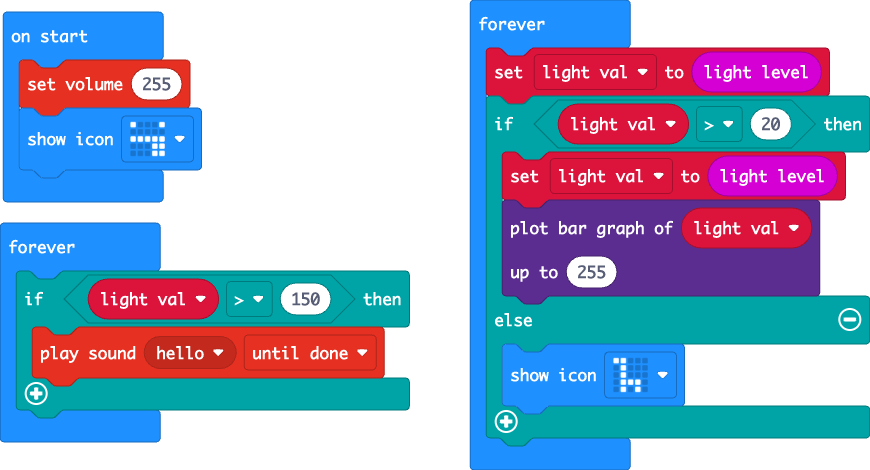
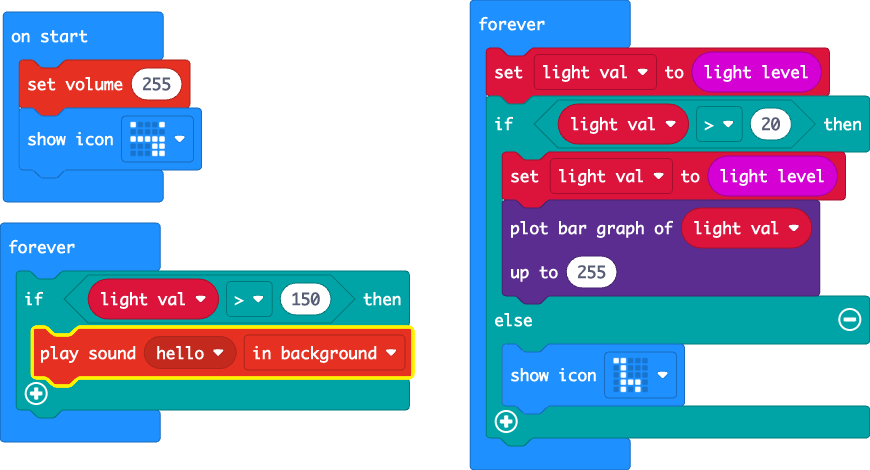
Update main.blocks, main.ts

Changed region(s): [[0.031, 0.6851, 0.4966, 0.834]]

diff --git a/main.ts b/main.ts
@@ -15,6 +15,6 @@ basic.forever(function () {
 })
 basic.forever(function () {
     if (light_val > 150) {
-        music.playSoundEffect(music.builtinSoundEffect(soundExpression.hello), SoundExpressionPlayMode.UntilDone)
+        music.playSoundEffect(music.builtinSoundEffect(soundExpression.hello), SoundExpressionPlayMode.InBackground)
     }
 })
